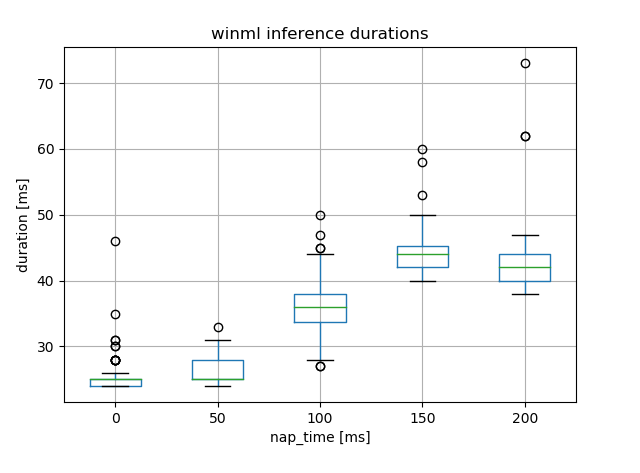
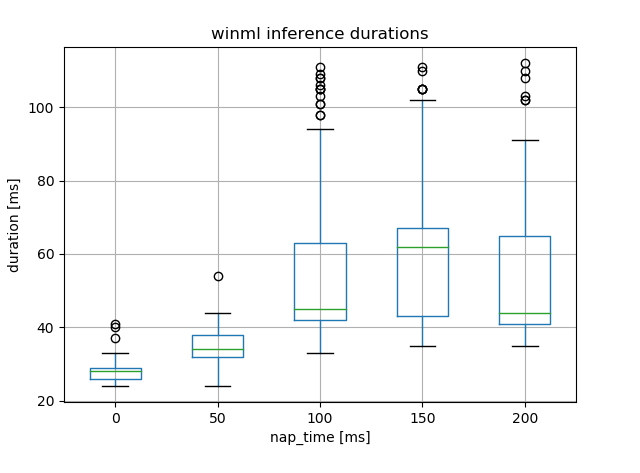
Number of iterations increased to 1000

diff --git a/visualize_durations.py b/visualize_durations.py
@@ -11,7 +11,8 @@ with open('winml_durations.txt') as f:
 			inference_times.append((int(nap_time), int(duration)))
 
 df = pd.DataFrame(inference_times, columns=['nap_time', 'inference_dur'])
-df.groupby('nap_time').agg({'inference_dur': ['min', 'max', 'mean', 'std']})
+groupped = df.groupby('nap_time').agg({'inference_dur': ['min', 'max', 'mean', 'std']})
+print(groupped.to_string())
 p = df.boxplot(column=['inference_dur'], by='nap_time')
 p.set_xlabel('nap_time [ms]')
 p.set_ylabel('duration [ms]')

diff --git a/main.cpp b/main.cpp
@@ -71,7 +71,7 @@ int main(int argc, char** argv) try {
 
   std::ofstream durations_out("./winml_durations.txt");
   using namespace std::chrono_literals;
-  constexpr std::size_t number_of_iterations = 100;
+  constexpr std::size_t number_of_iterations = 1000;
 
   RunAndMeasure(inference, number_of_iterations, 0ms, durations_out);
   RunAndMeasure(inference, number_of_iterations, 50ms, durations_out);

diff --git a/README.md b/README.md
@@ -2,7 +2,7 @@
 
 ## Problem statement
 
-It seems that WinML inference duration is corelated with the frequency with which it is called. The more frequent called the faster it is.
+It seems that WinML inference duration is correlated with the frequency with which it is called. The more frequent called the faster it is.
 
 ## Experiment
 
@@ -33,6 +33,14 @@ The inference durations are stored to the `winml_durations.txt` file, generated 
 
 ```
 $ ~/Anaconda3/python visualize_durations.py winml_durations.txt
+         inference_dur
+                   min  max    mean        std
+nap_time
+0                   24   41  27.704   2.028423
+50                  24   54  34.514   3.351572
+100                 33  111  50.904  12.513328
+150                 35  111  56.126  13.421634
+200                 35  112  50.826  13.448516
 ```
 
 ![WinML inference durations for various sleep durations](winml_inference_times.png)
